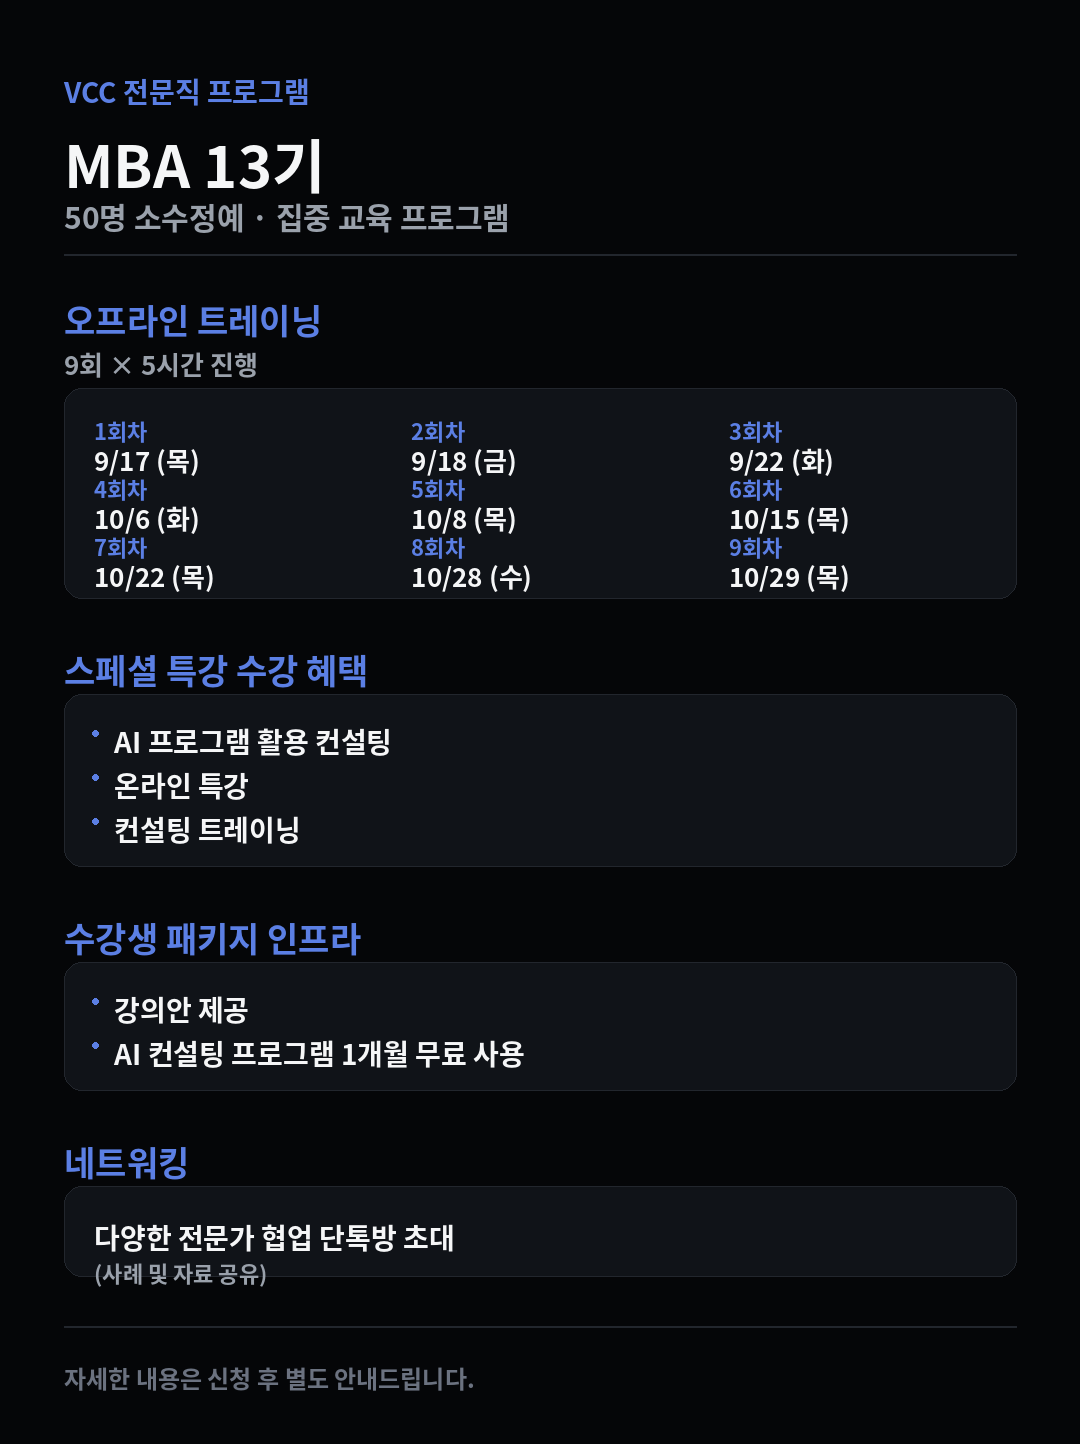
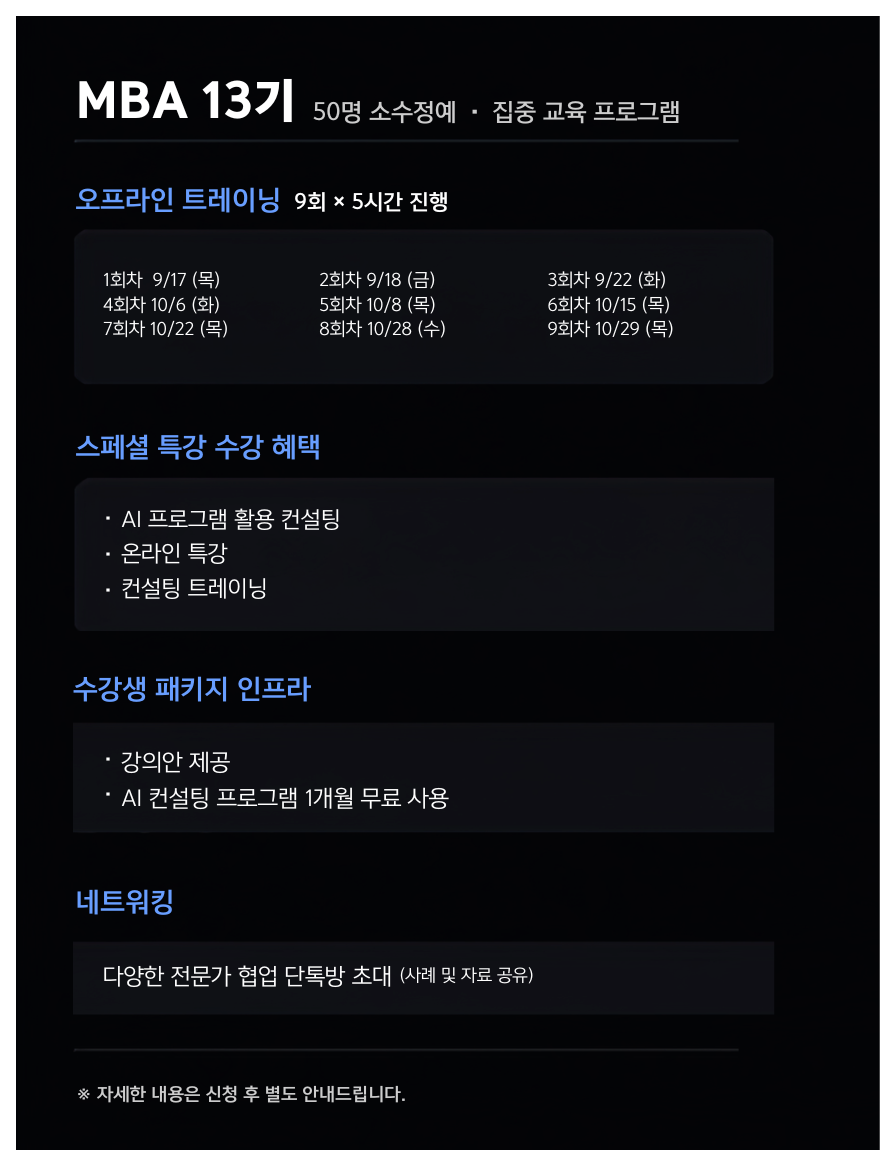
Add files via upload

diff --git a/mobile.html b/mobile.html
@@ -253,7 +253,7 @@
   .end-hook p{color:var(--text-dim);font-weight:400;font-size:14.5px;}
 
   /* FAQ accordion */
-  .faq-section{margin:0 0 40px;}
+  .faq-section{margin:28px 0 40px;}
   .faq-head{text-align:center;margin-bottom:22px;}
   .faq-head .tag{display:inline-block;margin:0 auto 12px;}
   .faq-head h3{font-size:18.5px;font-weight:900;color:var(--text);margin-bottom:8px;line-height:1.4;}
@@ -311,7 +311,7 @@
     background:var(--card);font-size:13.5px;font-weight:700;
   }
 
-  .final-banner{text-align:center;margin-top:56px;padding:44px 0;border-top:1px solid var(--line);}
+  .final-banner{text-align:center;margin-top:84px;padding:44px 0;border-top:1px solid var(--line);}
   .final-banner p{font-size:19px;font-weight:900;letter-spacing:-0.3px;}
   .final-banner p .accent{color:var(--accent);}
   .final-banner small{display:block;margin-top:12px;color:var(--text-dimmer);font-size:12px;font-weight:400;}

diff --git a/index.html b/index.html
@@ -344,7 +344,7 @@
   .end-hook p{color:var(--text-dim);font-weight:400;font-size:16px;}
 
   /* FAQ accordion */
-  .faq-section{max-width:720px;margin:0 auto 56px;}
+  .faq-section{max-width:720px;margin:36px auto 56px;}
   .faq-head{text-align:center;margin-bottom:28px;}
   .faq-head .tag{display:inline-block;margin:0 auto 14px;}
   .faq-head h3{font-size:clamp(20px,2.6vw,28px);font-weight:900;color:var(--text);margin-bottom:10px;}
@@ -413,7 +413,7 @@
   .link-btn:hover{border-color:var(--accent);color:var(--accent);}
 
   .final-banner{
-    text-align:center;margin-top:100px;padding:70px 0;border-top:1px solid var(--line);
+    text-align:center;margin-top:132px;padding:70px 0;border-top:1px solid var(--line);
   }
   .final-banner p{font-size:26px;font-weight:900;letter-spacing:-0.5px;}
   .final-banner p .accent{color:var(--accent);}
